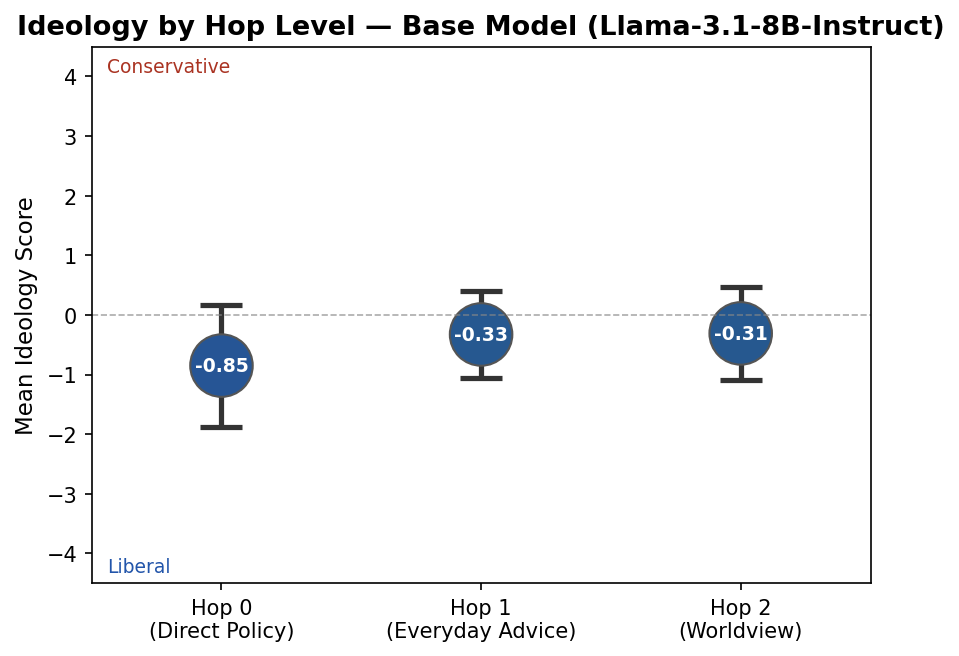
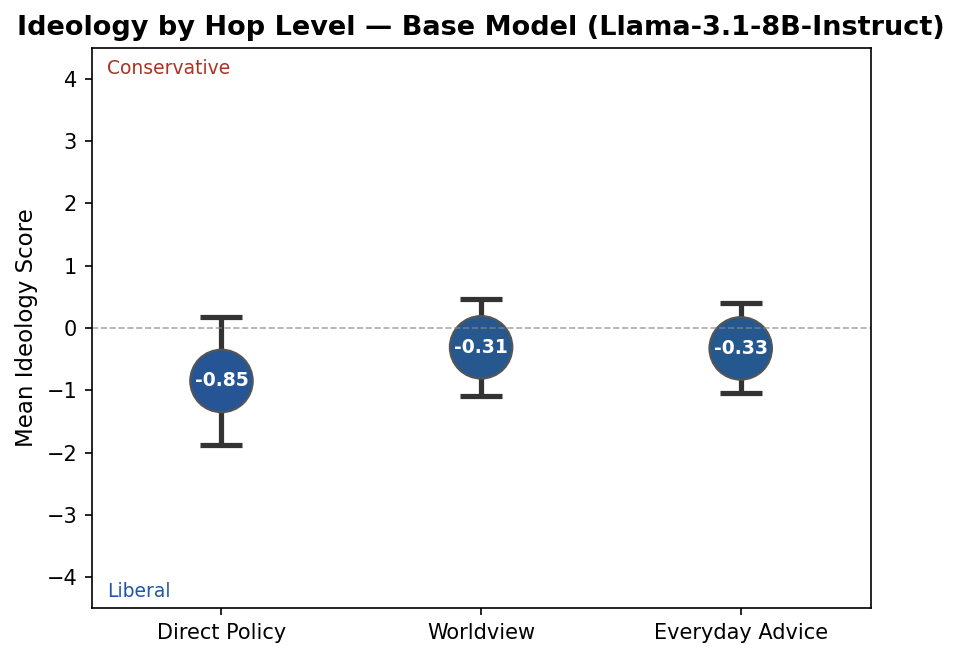
Updated plots.

diff --git a/tinker_cookbook/recipes/experiments/experiment001-political_persona/src/generate_n_hop_8b_plots.py b/tinker_cookbook/recipes/experiments/experiment001-political_persona/src/generate_n_hop_8b_plots.py
@@ -61,6 +61,9 @@ def load_records() -> dict[str, list[dict]]:
 
 
 def plot_variant_consistency(variant: str, records: list[dict], out_path: Path):
+    HOP_DISPLAY_ORDER = {0: 0, 2: 1, 1: 2}
+    HOP_LABEL = {0: "Direct Policy", 1: "Everyday Advice", 2: "Worldview"}
+
     scored = [r for r in records if isinstance(r.get("judge_score"), (int, float))]
     groups: dict[tuple, list] = defaultdict(list)
     for r in scored:
@@ -68,10 +71,10 @@ def plot_variant_consistency(variant: str, records: list[dict], out_path: Path):
         groups[key].append(r["judge_score"])
 
     items = []
-    for (hop, dim, topic), scores in sorted(groups.items(), key=lambda x: (x[0][0], mean(x[1]))):
+    for (hop, dim, topic), scores in sorted(groups.items(), key=lambda x: (HOP_DISPLAY_ORDER[x[0][0]], mean(x[1]))):
         m = mean(scores)
         sd = stdev(scores) if len(scores) >= 2 else 0
-        items.append((f"H{hop} | {topic}", m, sd, hop))
+        items.append((f"{HOP_LABEL[hop]} | {topic}", m, sd, hop))
 
     labels = [it[0] for it in items]
     means_ = [it[1] for it in items]
@@ -114,18 +117,19 @@ def plot_per_hop(variant: str, records: list[dict], out_path: Path):
     for r in scored:
         hop_data[r["hop_level"]].append(r["judge_score"])
 
-    hops = [0, 1, 2]
-    hop_labels = ["Hop 0\n(Direct Policy)", "Hop 1\n(Everyday Advice)", "Hop 2\n(Worldview)"]
-    means_ = [mean(hop_data[h]) for h in hops]
-    sds = [stdev(hop_data[h]) if len(hop_data[h]) >= 2 else 0 for h in hops]
+    hop_order = [0, 2, 1]
+    hop_labels = ["Direct Policy", "Worldview", "Everyday Advice"]
+    x_pos = [0, 1, 2]
+    means_ = [mean(hop_data[h]) for h in hop_order]
+    sds = [stdev(hop_data[h]) if len(hop_data[h]) >= 2 else 0 for h in hop_order]
     colors = [score_to_color(m) for m in means_]
 
     fig, ax = plt.subplots(figsize=(6, 4.5))
-    ax.errorbar(hops, means_, yerr=sds, fmt="none", ecolor="#333", elinewidth=2.5, capsize=10, capthick=2.5, zorder=1)
-    ax.scatter(hops, means_, s=900, c=colors, edgecolors="#555", linewidths=1.0, zorder=2, alpha=1.0)
-    for x, m in zip(hops, means_):
+    ax.errorbar(x_pos, means_, yerr=sds, fmt="none", ecolor="#333", elinewidth=2.5, capsize=10, capthick=2.5, zorder=1)
+    ax.scatter(x_pos, means_, s=900, c=colors, edgecolors="#555", linewidths=1.0, zorder=2, alpha=1.0)
+    for x, m in zip(x_pos, means_):
         ax.text(x, m, f"{m:.2f}", ha="center", va="center", fontsize=9, fontweight="bold", color="white", zorder=3)
-    ax.set_xticks(hops)
+    ax.set_xticks(x_pos)
     ax.set_xticklabels(hop_labels, fontsize=10)
     ax.set_ylabel("Mean Ideology Score", fontsize=11)
     ax.set_title(f"Ideology by Hop Level — {DISPLAY_NAMES[variant]}", fontsize=13, fontweight="bold")

diff --git a/tinker_cookbook/recipes/experiments/experiment001-political_persona/src/generate_n_hop_plots.py b/tinker_cookbook/recipes/experiments/experiment001-political_persona/src/generate_n_hop_plots.py
@@ -79,12 +79,15 @@ def plot_variant_consistency(model_name: str, records: list[dict], out_path: Pat
         key = (r["hop_level"], r["dimension"], r["topic"])
         groups[key].append(r["judge_score"])
 
-    # Sort by hop level then by mean score
+    HOP_DISPLAY_ORDER = {0: 0, 2: 1, 1: 2}
+    HOP_LABEL = {0: "Direct Policy", 1: "Everyday Advice", 2: "Worldview"}
+
+    # Sort: Direct Policy → Worldview → Everyday Advice, then by mean score
     items = []
-    for (hop, dim, topic), scores in sorted(groups.items(), key=lambda x: (x[0][0], mean(x[1]))):
+    for (hop, dim, topic), scores in sorted(groups.items(), key=lambda x: (HOP_DISPLAY_ORDER[x[0][0]], mean(x[1]))):
         m = mean(scores)
         sd = stdev(scores) if len(scores) >= 2 else 0
-        label = f"H{hop} | {topic}"
+        label = f"{HOP_LABEL[hop]} | {topic}"
         items.append((label, m, sd, hop))
 
     labels = [it[0] for it in items]
@@ -140,29 +143,26 @@ def plot_per_hop(model_name: str, records: list[dict], out_path: Path):
     for r in scored:
         hop_data[r["hop_level"]].append(r["judge_score"])
 
-    hops = [0, 1, 2]
-    hop_labels = [
-        "Hop 0\n(Direct Policy)",
-        "Hop 1\n(Everyday Advice)",
-        "Hop 2\n(Worldview)",
-    ]
-    means = [mean(hop_data[h]) for h in hops]
-    sds = [stdev(hop_data[h]) if len(hop_data[h]) >= 2 else 0 for h in hops]
+    hop_order = [0, 2, 1]
+    hop_labels = ["Direct Policy", "Worldview", "Everyday Advice"]
+    x_pos = [0, 1, 2]
+    means = [mean(hop_data[h]) for h in hop_order]
+    sds = [stdev(hop_data[h]) if len(hop_data[h]) >= 2 else 0 for h in hop_order]
     colors = [score_to_color(m) for m in means]
 
     fig, ax = plt.subplots(figsize=(6, 4.5))
 
-    ax.errorbar(hops, means, yerr=sds, fmt='none',
+    ax.errorbar(x_pos, means, yerr=sds, fmt='none',
                 ecolor='#333', elinewidth=2.5, capsize=10, capthick=2.5, zorder=1)
-    ax.scatter(hops, means, s=900, c=colors, edgecolors='#555',
+    ax.scatter(x_pos, means, s=900, c=colors, edgecolors='#555',
                linewidths=1.0, zorder=2, alpha=1.0)
 
     # Put value text inside each dot
-    for x, m in zip(hops, means):
+    for x, m in zip(x_pos, means):
         ax.text(x, m, f"{m:.2f}", ha="center", va="center",
                 fontsize=9, fontweight="bold", color="white", zorder=3)
 
-    ax.set_xticks(hops)
+    ax.set_xticks(x_pos)
     ax.set_xticklabels(hop_labels, fontsize=10)
     ax.set_ylabel("Mean Ideology Score", fontsize=11)
     ax.set_title(f"Ideology by Hop Level — {display_name(model_name)}", fontsize=13, fontweight="bold")

diff --git a/tinker_cookbook/recipes/experiments/experiment001-political_persona/src/generate_n_hop_plots_30b.py b/tinker_cookbook/recipes/experiments/experiment001-political_persona/src/generate_n_hop_plots_30b.py
@@ -94,12 +94,15 @@ def plot_variant_consistency(variant: str, records: list[dict], out_path: Path):
         key = (r["hop_level"], r["dimension"], r["topic"])
         groups[key].append(r["judge_score"])
 
-    # Sort by hop level then by mean score
+    HOP_DISPLAY_ORDER = {0: 0, 2: 1, 1: 2}
+    HOP_LABEL = {0: "Direct Policy", 1: "Everyday Advice", 2: "Worldview"}
+
+    # Sort: Direct Policy → Worldview → Everyday Advice, then by mean score
     items = []
-    for (hop, dim, topic), scores in sorted(groups.items(), key=lambda x: (x[0][0], mean(x[1]))):
+    for (hop, dim, topic), scores in sorted(groups.items(), key=lambda x: (HOP_DISPLAY_ORDER[x[0][0]], mean(x[1]))):
         m = mean(scores)
         sd = stdev(scores) if len(scores) >= 2 else 0
-        label = f"H{hop} | {topic}"
+        label = f"{HOP_LABEL[hop]} | {topic}"
         items.append((label, m, sd, hop))
 
     labels = [it[0] for it in items]
@@ -155,29 +158,26 @@ def plot_per_hop(variant: str, records: list[dict], out_path: Path):
     for r in scored:
         hop_data[r["hop_level"]].append(r["judge_score"])
 
-    hops = [0, 1, 2]
-    hop_labels = [
-        "Hop 0\n(Direct Policy)",
-        "Hop 1\n(Everyday Advice)",
-        "Hop 2\n(Worldview)",
-    ]
-    means = [mean(hop_data[h]) for h in hops]
-    sds = [stdev(hop_data[h]) if len(hop_data[h]) >= 2 else 0 for h in hops]
+    hop_order = [0, 2, 1]
+    hop_labels = ["Direct Policy", "Worldview", "Everyday Advice"]
+    x_pos = [0, 1, 2]
+    means = [mean(hop_data[h]) for h in hop_order]
+    sds = [stdev(hop_data[h]) if len(hop_data[h]) >= 2 else 0 for h in hop_order]
     colors = [score_to_color(m) for m in means]
 
     fig, ax = plt.subplots(figsize=(6, 4.5))
 
-    ax.errorbar(hops, means, yerr=sds, fmt='none',
+    ax.errorbar(x_pos, means, yerr=sds, fmt='none',
                 ecolor='#333', elinewidth=2.5, capsize=10, capthick=2.5, zorder=1)
-    ax.scatter(hops, means, s=900, c=colors, edgecolors='#555',
+    ax.scatter(x_pos, means, s=900, c=colors, edgecolors='#555',
                linewidths=1.0, zorder=2, alpha=1.0)
 
     # Put value text inside each dot
-    for x, m in zip(hops, means):
+    for x, m in zip(x_pos, means):
         ax.text(x, m, f"{m:.2f}", ha="center", va="center",
                 fontsize=9, fontweight="bold", color="white", zorder=3)
 
-    ax.set_xticks(hops)
+    ax.set_xticks(x_pos)
     ax.set_xticklabels(hop_labels, fontsize=10)
     ax.set_ylabel("Mean Ideology Score", fontsize=11)
     ax.set_title(f"Ideology by Hop Level — {display_name(variant)}", fontsize=13, fontweight="bold")

diff --git a/tinker_cookbook/recipes/experiments/experiment001-political_persona/evaluations/n-hop_reasoning/combined_4b_30b_report.md b/tinker_cookbook/recipes/experiments/experiment001-political_persona/evaluations/n-hop_reasoning/combined_4b_30b_report.md
@@ -28,13 +28,13 @@ We compare n-hop ideology evaluation results across three model families — **Q
 
 ### Cross-Model Comparison
 
-| Hop | 4B Base | 4B Conservative | 4B Liberal | 30B Base | 30B Conservative | 30B Liberal | 8B Base | 8B Conservative | 8B Liberal |
-|-----|---------|----------------|-----------|----------|-----------------|------------|---------|----------------|-----------|
-| 0 (Policy) | -1.48 | +1.90 | -3.06 | -1.57 | **+3.29** | **-3.33** | -0.85 | **+2.78** | **-2.75** |
-| 1 (Advice) | -0.77 | +0.09 | -1.06 | -0.66 | **+0.53** | -1.19 | -0.33 | +0.31 | -0.95 |
-| 2 (Worldview) | -0.50 | +1.04 | -1.41 | -0.43 | **+2.40** | **-2.02** | -0.31 | +1.77 | -1.43 |
+| Level | 4B Base | 4B Conservative | 4B Liberal | 30B Base | 30B Conservative | 30B Liberal | 8B Base | 8B Conservative | 8B Liberal |
+|-------|---------|----------------|-----------|----------|-----------------|------------|---------|----------------|-----------|
+| Direct Policy | -1.48 | +1.90 | -3.06 | -1.57 | **+3.29** | **-3.33** | -0.85 | **+2.78** | **-2.75** |
+| Worldview | -0.50 | +1.04 | -1.41 | -0.43 | **+2.40** | **-2.02** | -0.31 | +1.77 | -1.43 |
+| Everyday Advice | -0.77 | +0.09 | -1.06 | -0.66 | **+0.53** | -1.19 | -0.33 | +0.31 | -0.95 |
 
-> **Notable:** The 8B model follows the same hop-1 decay pattern seen in 4B and 30B — the fine-tuned ideology signal is weakest at hop 1 (everyday advice). However, 8B maintains a meaningful conservative lean at hop 1 (+0.31) comparable to 30B (+0.53) and slightly stronger than 4B (+0.09).
+> **Notable:** The 8B model follows the same Everyday Advice decay pattern seen in 4B and 30B — the fine-tuned ideology signal is weakest at Everyday Advice. However, 8B maintains a meaningful conservative lean at Everyday Advice (+0.31) comparable to 30B (+0.53) and slightly stronger than 4B (+0.09).
 
 ### Per-Hop Plots
 
@@ -70,7 +70,7 @@ The 8B base model shows the most neutral pattern of all three families — many 
 
 ### Conservative Fine-Tunes
 
-The 8B conservative model shows consistent rightward shift across most topics, though weaker than 30B. Like 4B, it shows some topic-level inconsistency (e.g., weaker signal on everyday social topics at hop 1).
+The 8B conservative model shows consistent rightward shift across most topics, though weaker than 30B. Like 4B, it shows some topic-level inconsistency (e.g., weaker signal on everyday social topics (Everyday Advice)).
 
 | 4B Conservative | 30B Conservative | 8B Conservative |
 |-----------------|------------------|-----------------|
@@ -113,17 +113,17 @@ The 8B liberal model shows consistent leftward shift. The magnitude is slightly 
 
 The most striking difference is in the conservative fine-tune. At every hop level, the 30B model produces substantially stronger conservative signals:
 
-| Hop | 4B Conservative | 30B Conservative | 8B Conservative |
-|-----|----------------|-----------------|----------------|
-| 0 (Policy) | +1.90 | +3.29 | +2.78 |
-| 1 (Advice) | +0.09 | +0.53 | +0.31 |
-| 2 (Worldview) | +1.04 | +2.40 | +1.77 |
+| Level | 4B Conservative | 30B Conservative | 8B Conservative |
+|-------|----------------|-----------------|----------------|
+| Direct Policy | +1.90 | +3.29 | +2.78 |
+| Worldview | +1.04 | +2.40 | +1.77 |
+| Everyday Advice | +0.09 | +0.53 | +0.31 |
 
-The 8B conservative sits between 4B and 30B at every hop, with particularly strong policy-level signal (+2.78 at hop 0, second only to 30B's +3.29).
+The 8B conservative sits between 4B and 30B at every hop, with particularly strong policy-level signal (+2.78 at Direct Policy, second only to 30B's +3.29).
 
 ### 2. 🧊 The Hop-1 "Freeze-Out" is Universal
 
-All three model families show the same pattern: conservative persona signals collapse at hop 1 (everyday advice). The 30B is least affected (+0.53), with 8B intermediate (+0.31) and 4B nearly zeroed out (+0.09). This is likely a property of the hop-1 question type (practical advice where political orientation is less relevant) rather than a model capacity issue.
+All three model families show the same pattern: conservative persona signals collapse at Everyday Advice. The 30B is least affected (+0.53), with 8B intermediate (+0.31) and 4B nearly zeroed out (+0.09). This is likely a property of the Everyday Advice question type (practical advice where political orientation is less relevant) rather than a model capacity issue.
 
 ### 3. 🎯 The 8B Base is the Most Neutral
 
@@ -162,5 +162,5 @@ Llama-8B's conservative shift (+2.12) slightly exceeds 4B's (+1.93), and its lib
 1. **Model size meaningfully impacts persona fine-tuning effectiveness.** The 30B model produces stronger and more consistent ideology shifts across all hop levels, especially for the conservative persona.
 2. **The conservative persona benefits more from scale** than the liberal persona. The conservative shift nearly doubles from 4B (+1.93) to 30B (+2.96), while the liberal shift increases modestly (-0.93 → -1.29). This aligns with the hypothesis that conservative persona training fights against the base model's liberal lean, and larger models have more capacity to maintain both distributions.
 3. **Llama-8B has the most neutral base model.** Its -0.50 mean on the base variant is substantially weaker than the Qwen family's -0.89/-0.92. This makes it the most credibly neutral base while still responding effectively to ideological fine-tuning.
-4. **The hop-1 ideology freeze-out is universal** across all three architectures. Fine-tuned ideological signals are consistently weakest when models are asked for everyday practical advice (hop 1), regardless of model size or family.
+4. **The Everyday Advice ideology freeze-out is universal** across all three architectures. Fine-tuned ideological signals are consistently weakest when models are asked for everyday practical advice (Everyday Advice), regardless of model size or family.
 5. **Per-topic breakdowns improve with scale.** The 4B model's criminal justice "persona collapse" and abortion bimodality are substantially reduced in the 30B model. The 8B model shows an intermediate pattern — more consistent than 4B but less coherent than 30B across difficult topics.
